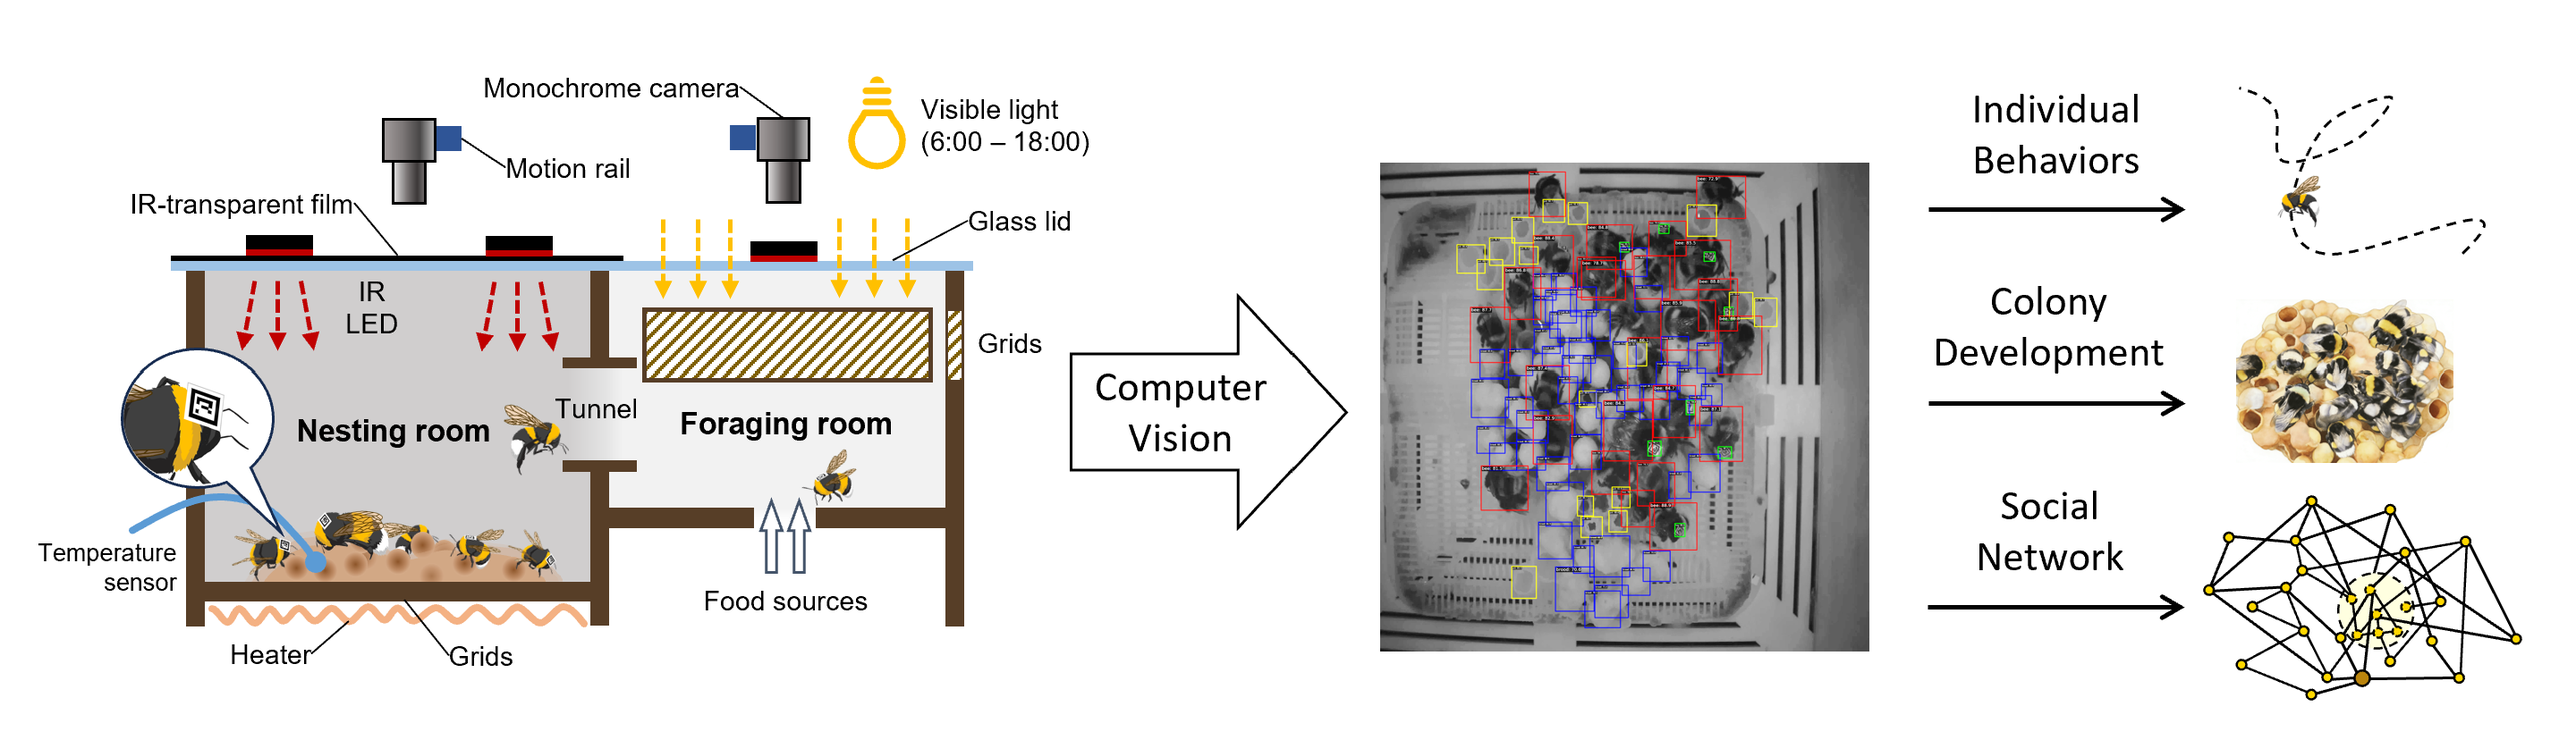
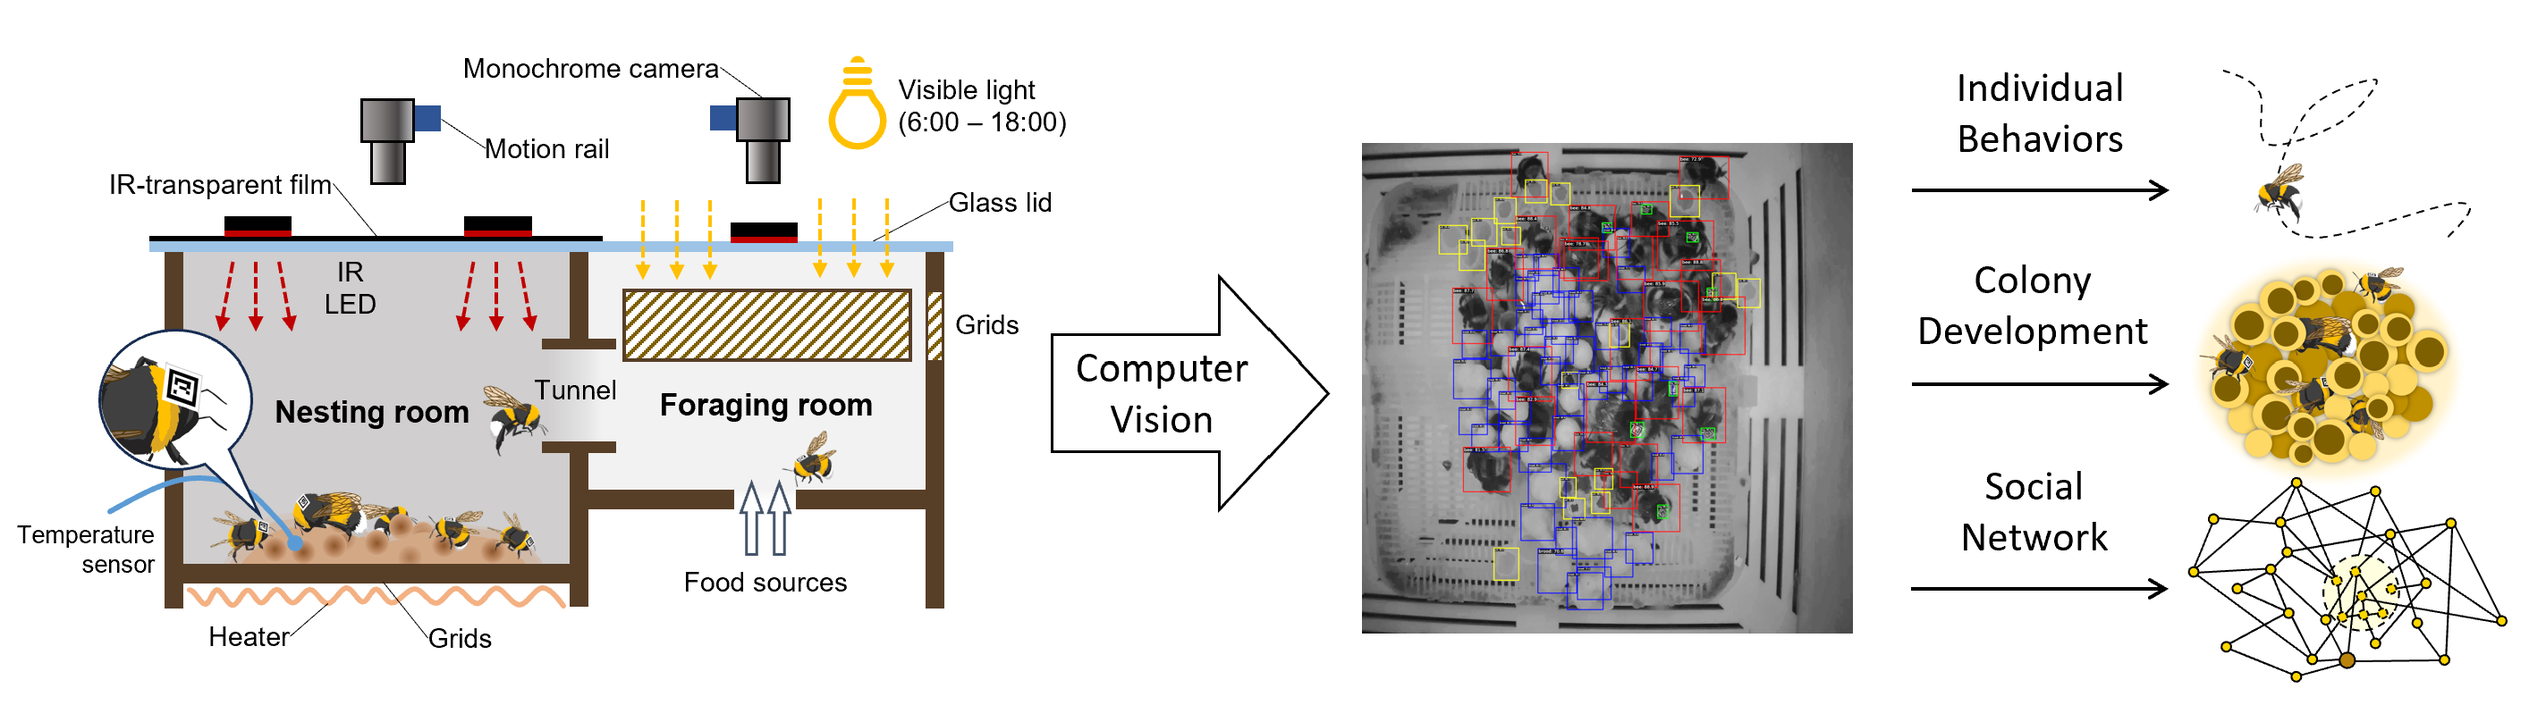
update

Changed region(s): [[0.0, 0.0619, 0.9958, 0.9592], [0.9024, 0.1238, 0.9335, 0.1856]]

diff --git a/content/projects.md b/content/projects.md
@@ -18,19 +18,6 @@ Preprint at https://doi.org/10.32942/X2Z40P.
 
 ---
 
-### Pollination re-evaluation
-
-Evaluate the economic values and nutrition contribution of pollination services in China using updated pollinator dependency values.
-
----
-
-
-### Global Plastic Treaty
-
-UN Global Plastic Treaty negotiations.
-
----
-
 ### Pollinators and plastics
 
 One research paper at https://doi.org/10.1101/2025.07.24.666509.
@@ -40,6 +27,18 @@ One research paper at https://doi.org/10.1101/2025.07.24.666509.
 One software patent.
 
 One review paper at https://doi.org/10.1038/s41467-024-52734-3.
+
+---
+
+### Pollination re-evaluation
+
+This project evaluates the economic values and nutrition contribution of pollination services in China using updated pollinator dependency values.
+
+---
+
+### Global Plastic Treaty
+
+We are interested in the progress of the UN Global Plastic Treaty negotiations, and the role of agroecosystems in the proposed texts of the treaty.
 
 ---
 
